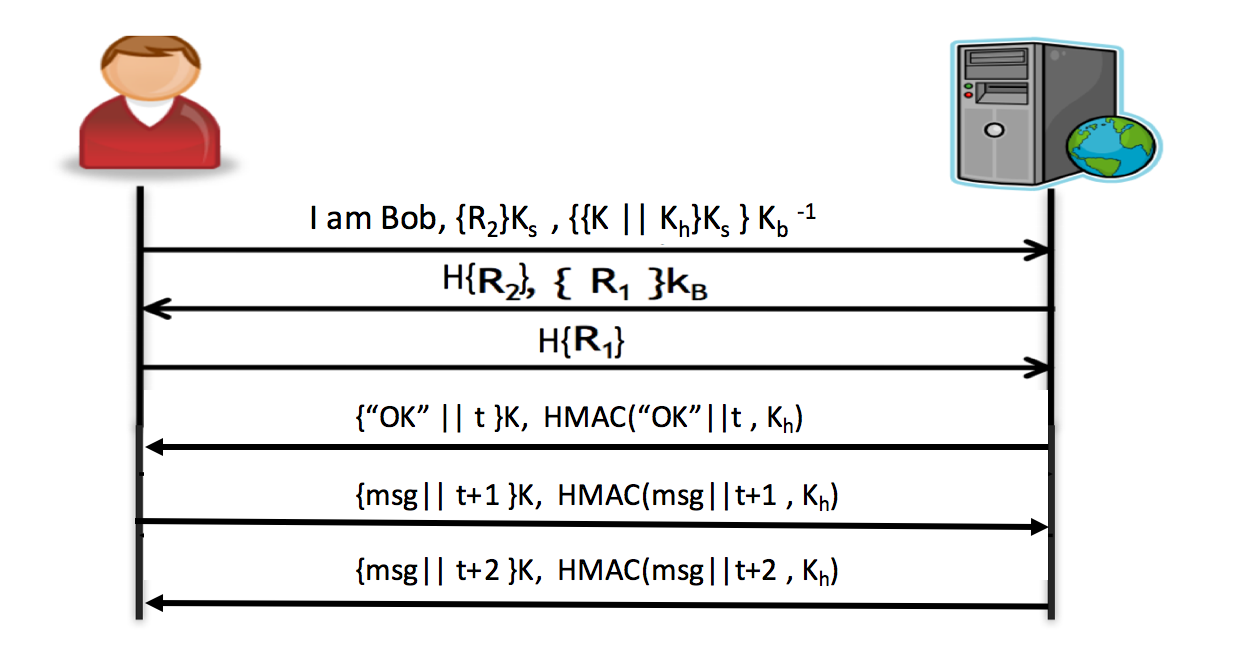
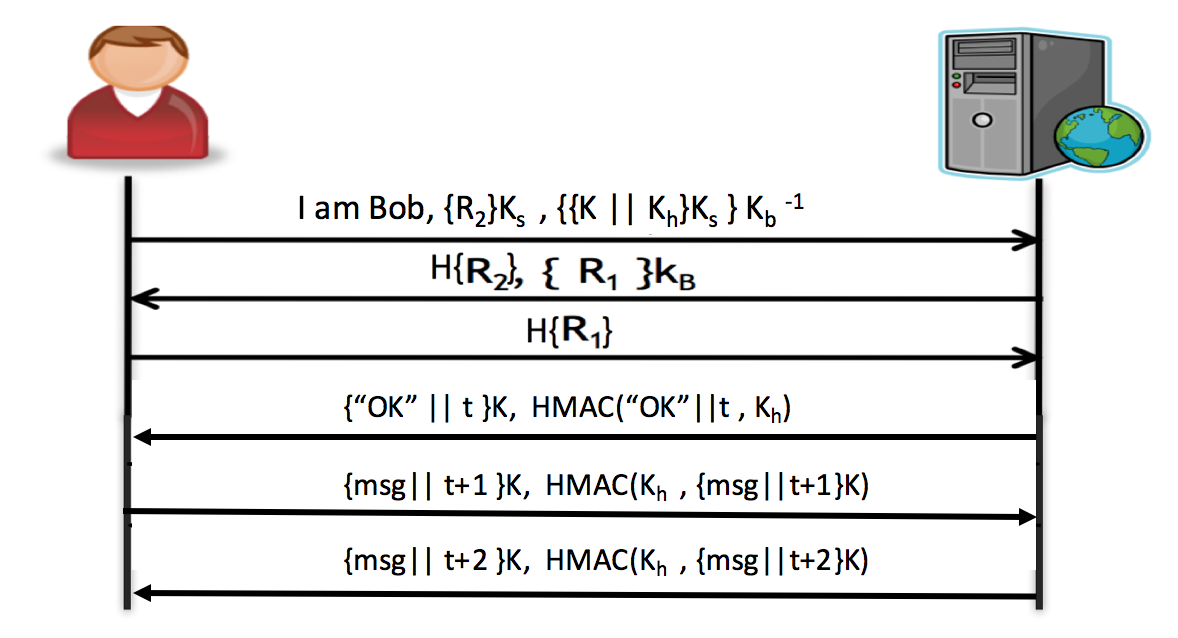
Added Discussion part for write-up, change the picture for group server- threat 5. Will add more description for threat 6.

Changed region(s): [[0.0306, 0.0298, 0.9779, 0.953]]

diff --git a/doc/phase4-writeup.htm b/doc/phase4-writeup.htm
@@ -92,19 +92,28 @@ your group has decided to use to address threats T5–T7.</p>
       <h2>Discussion</h2>
 <!-- BEGIN CHANGES HERE -->
 
-<p>Conclude with a paragraph or two discussing the interplay between your
-proposed mechanisms, and commenting on the design process that your group
-followed. Did you discuss other ideas that didn’t pan out before settling on the
-above-documented approach? Did you end up designing a really interesting
-protocol suite that addresses multiple threats at once? Use this space to show
-off your hard work!</p>
+<p>Proposing proper mechanisms for this phase was harder than we thought. We got stuck on the degree that we should trust file server to implement and thought the file server could not do anything except storing files. But later, during the discussion with Dr. Garrison, we realized that we should trust file server in some degree if the file server is willing to act properly.</p>
 
-<p>Finally, spend about one paragraph convincing me that your modified protocols
-still address the threats T1–T4 described in Phase 3 of the project.</p>
+<p>For our first draft of mechanisms, we were struggling on how to do threat 6. The first idea we came up with was to encrypt the file again and again if there was any new key added into the key list. And we did lots of research on how to encrypt additively, but there were only papers and no implementation available. Also, to download all the files, encrypt them with the new key, and upload them to the file server are really expensive if there are lots of files stored on the file server. In the end, we decided to encrypt the file with only one key (the newest key in the list), and decrypt that file with the associated key. This method brings some trade-off: it’s cheap and easy to be implemented.  However, we have to decide the period of expiration to prevent the deleted user from re-using the token to upload files.  It was also hard to decide what would be a good time expiration between the usability and security. In order to protect the usability, we decided to do all the operations behind the scene: once the token expires, the application will request a new token automatically. If that automatic request fails because the user is deleted from the group server, the user will be forced to quit the application. This behind-scene operation provides the usability and also security at the same time, which is an interesting feature in our protocol.
+</p>
 
-<p>When the user first connects to a server, the server will send the public keys to the user first. The user will save the name of the server and port number, along with the public keys, on file. If the user attempts to connect to the next server on time, he/she will look into the file and fetch the public key to connect to the server directly.</p>
+<h3>Phase 3 revisited:</h3>
+<h4>Threat 1: Unauthorized Token Issuance</h4>
+None of threat 5- 7 changes the mutual authentication between the group server and client. Even though hmac is added to the process of exchanging messages, the mutual authentication has to be done before any communication starts.  That mutual authentication ensures the token to be issued to proper users. Actually, protocol 5 enhances the security of communication between the group server and the client, by preventing the message re-order, replay, and modification. Protocol 6 issues a new type of token that contains a list of secret keys to encrypt and decrypt files, encrypt/decrypt files with a proper key locally, and add time-out to tokens. None of those operations changes the mutual authentication between the group server and client. Threat 7 only adds another new type of token, which does not change the mutual authentication either.</p>
+
+<h4>Threat 2: Token Modification/Forgery</h4>
+Even though, in threat 6 and 7, two more types of token are added. But the protocol 2 is still implemented on the tokens: every time a token is issued, all the fields of that token are concatenated and signed by the group server’s public key. When the file server receives a request, the verification of that digital signature will be implemented. If anything is changed to the fields, the verification will fail, and it ensures that every token is issued by the group server ad was not modified after issuance.
+</p>
+
+
+<h3>Extra Credits:</h3>
+<p>In this phase, we made some adjustment to make the communication between clients and servers more dynamically. In the previous phase, we assume that all the public keys are available on the website, and users/servers need to check the website to fetch the public key.</p>
+
+<p>Now, the assumption is that the public keys are still on the website, and users can check the public key he/she receives on that website. However, the process of getting server’s public key changed.</p>
+
+<p>When the user first connects to a server, the server will send the public keys to the user first. The client needs to choose whether he/she wants to accept that public key, by checking the public key posted on the website. If the user chooses to accept that key, the user will save the name of the server and port number, along with the public key, on file. If the user attempts to connect to the same server next time, he/she will look into the saved file and fetch the public key to connect to the server directly.</p>
  
-<p>In order to support the dynamic adding of users, we will add a feature of “pending requests” for the group server. When a user wants to be created, the user will create his/her RSA key pairs and share it to the group server. This communication will be called “To_be_Created”. Once the group serve receives the request and the user’s username and the public key, it will close the connection, stores the user’s name and public key in a list to be approved by the ADMIN. When the ADMIN wants to create a user, he/she will look into the list to check whether this user sends the request or now. If the request exists, the ADMIN will create that user and add it to the userList.</p>
+<p>In order to support the dynamic adding of users, we will add a feature of “pending requests” for the group server. When a user wants to be created, the user will create his/her RSA key pairs and share the public key to the group server. This communication will be called “To_be_Created”. Once the group serve receives the request containing the user’s username and the public key, it will close the connection, stores the user’s name and public key in a list to be approved by the ADMIN. When the ADMIN wants to create a user, he/she will look into the list to check whether this user sends the request or now. If the request exists, the ADMIN will create that user and add it to the userList.</p>
 
 <!-- END CHANGES HERE -->
     </section>
